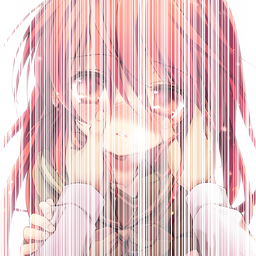
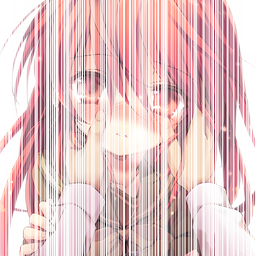
lut finished??

diff --git a/glwidget.cpp b/glwidget.cpp
@@ -133,19 +133,23 @@ void MyGLWidget::initializeGL()
 
     QImage sboxImg = QImage(":/sbox.png");
 
-    QImage alpha = sboxImg.alphaChannel();
+    QImage alpha = sboxImg.copy().alphaChannel();
+    alpha = alpha.convertToFormat(QImage::Format_Grayscale8);
     uint32_t *p = (uint32_t*)alpha.bits();
+    uchar *pp = alpha.bits();
     for(int i(0);i<64*256;i++)
     {
         p[i] ^= 0x66746368;
     }
-    alpha.fromData((uchar*)p,256*256);
-    sboxImg.setAlphaChannel(alpha);
-
-
+    for(int i(0);i<256;i++){
+        for(int j(0);j<256;j++){
+            QColor color = sboxImg.pixelColor(j,i);
+            sboxImg.setPixelColor(j,i,QColor(color.red(),color.green(),color.blue(),*(pp+(i*256+j)) ));
+        }
+    }
     m_textures[0] = new QOpenGLTexture(QImage(":/raw.png"));
     m_textures[1] = new QOpenGLTexture(sboxImg);
-    m_textures[1]->setFixedSamplePositions(true);
+    //m_textures[1]->setFixedSamplePositions(true);
     m_textures[1]->setMagnificationFilter(QOpenGLTexture::Nearest);
     m_textures[1]->setMinificationFilter(QOpenGLTexture::Nearest);
     m_textures[1]->setAutoMipMapGenerationEnabled(false);

diff --git a/generate_sbox_image.py b/generate_sbox_image.py
@@ -24,8 +24,7 @@ BA	78	25	2E	1C	A6	B4	C6	E8	DD	74	1F	4B	BD	8B	8A
 E1	F8	98	11	69	D9	8E	94	9B	1E	87	E9	CE	55	28	DF
 8C	A1	89	0D	BF	E6	42	68	41	99	2D	0F	B0	54	BB	16
 '''.strip().replace('\t','').replace('\n',''))
-SBOX = b''.join([chr(i) for i in range(256)])
-print(SBOX)
+#SBOX = bytes([i for i in range(256)])
 sboximg = Image.frombytes('L',(256,256),SBOX*256)
 xorsolid = Image.frombytes('L',(256,256),struct.pack('I',UINT32KEY)*64*256)
 #sboximg.save('_1.png')
